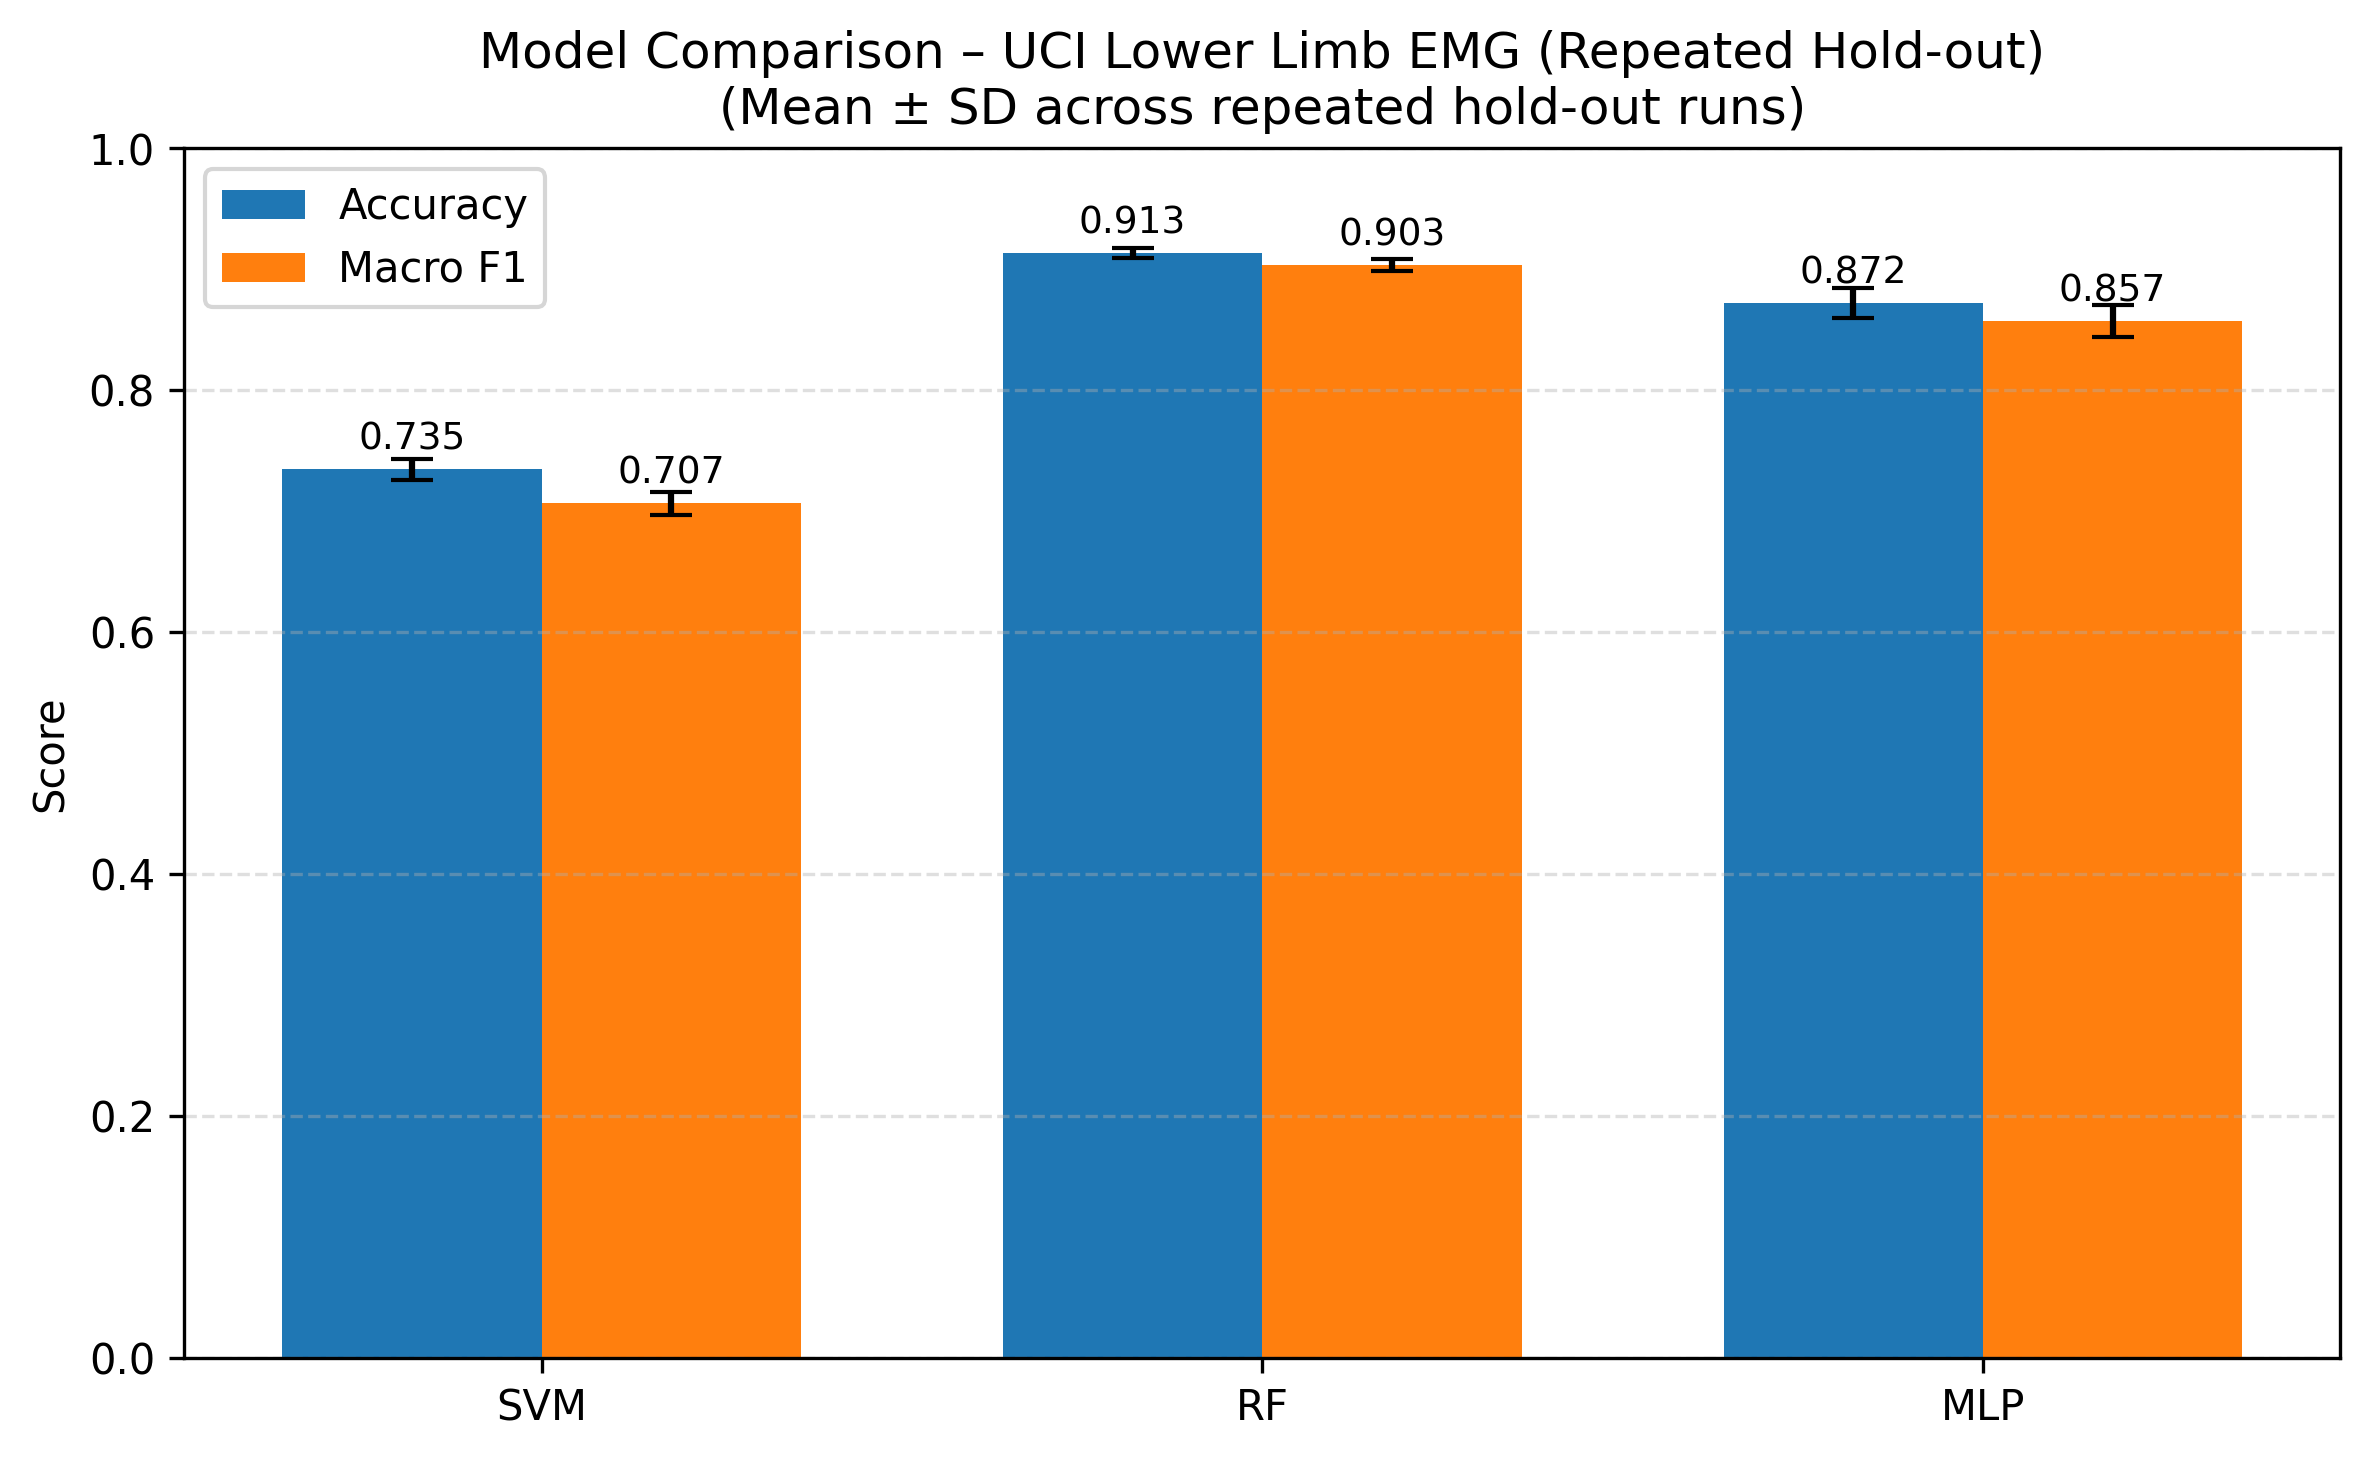
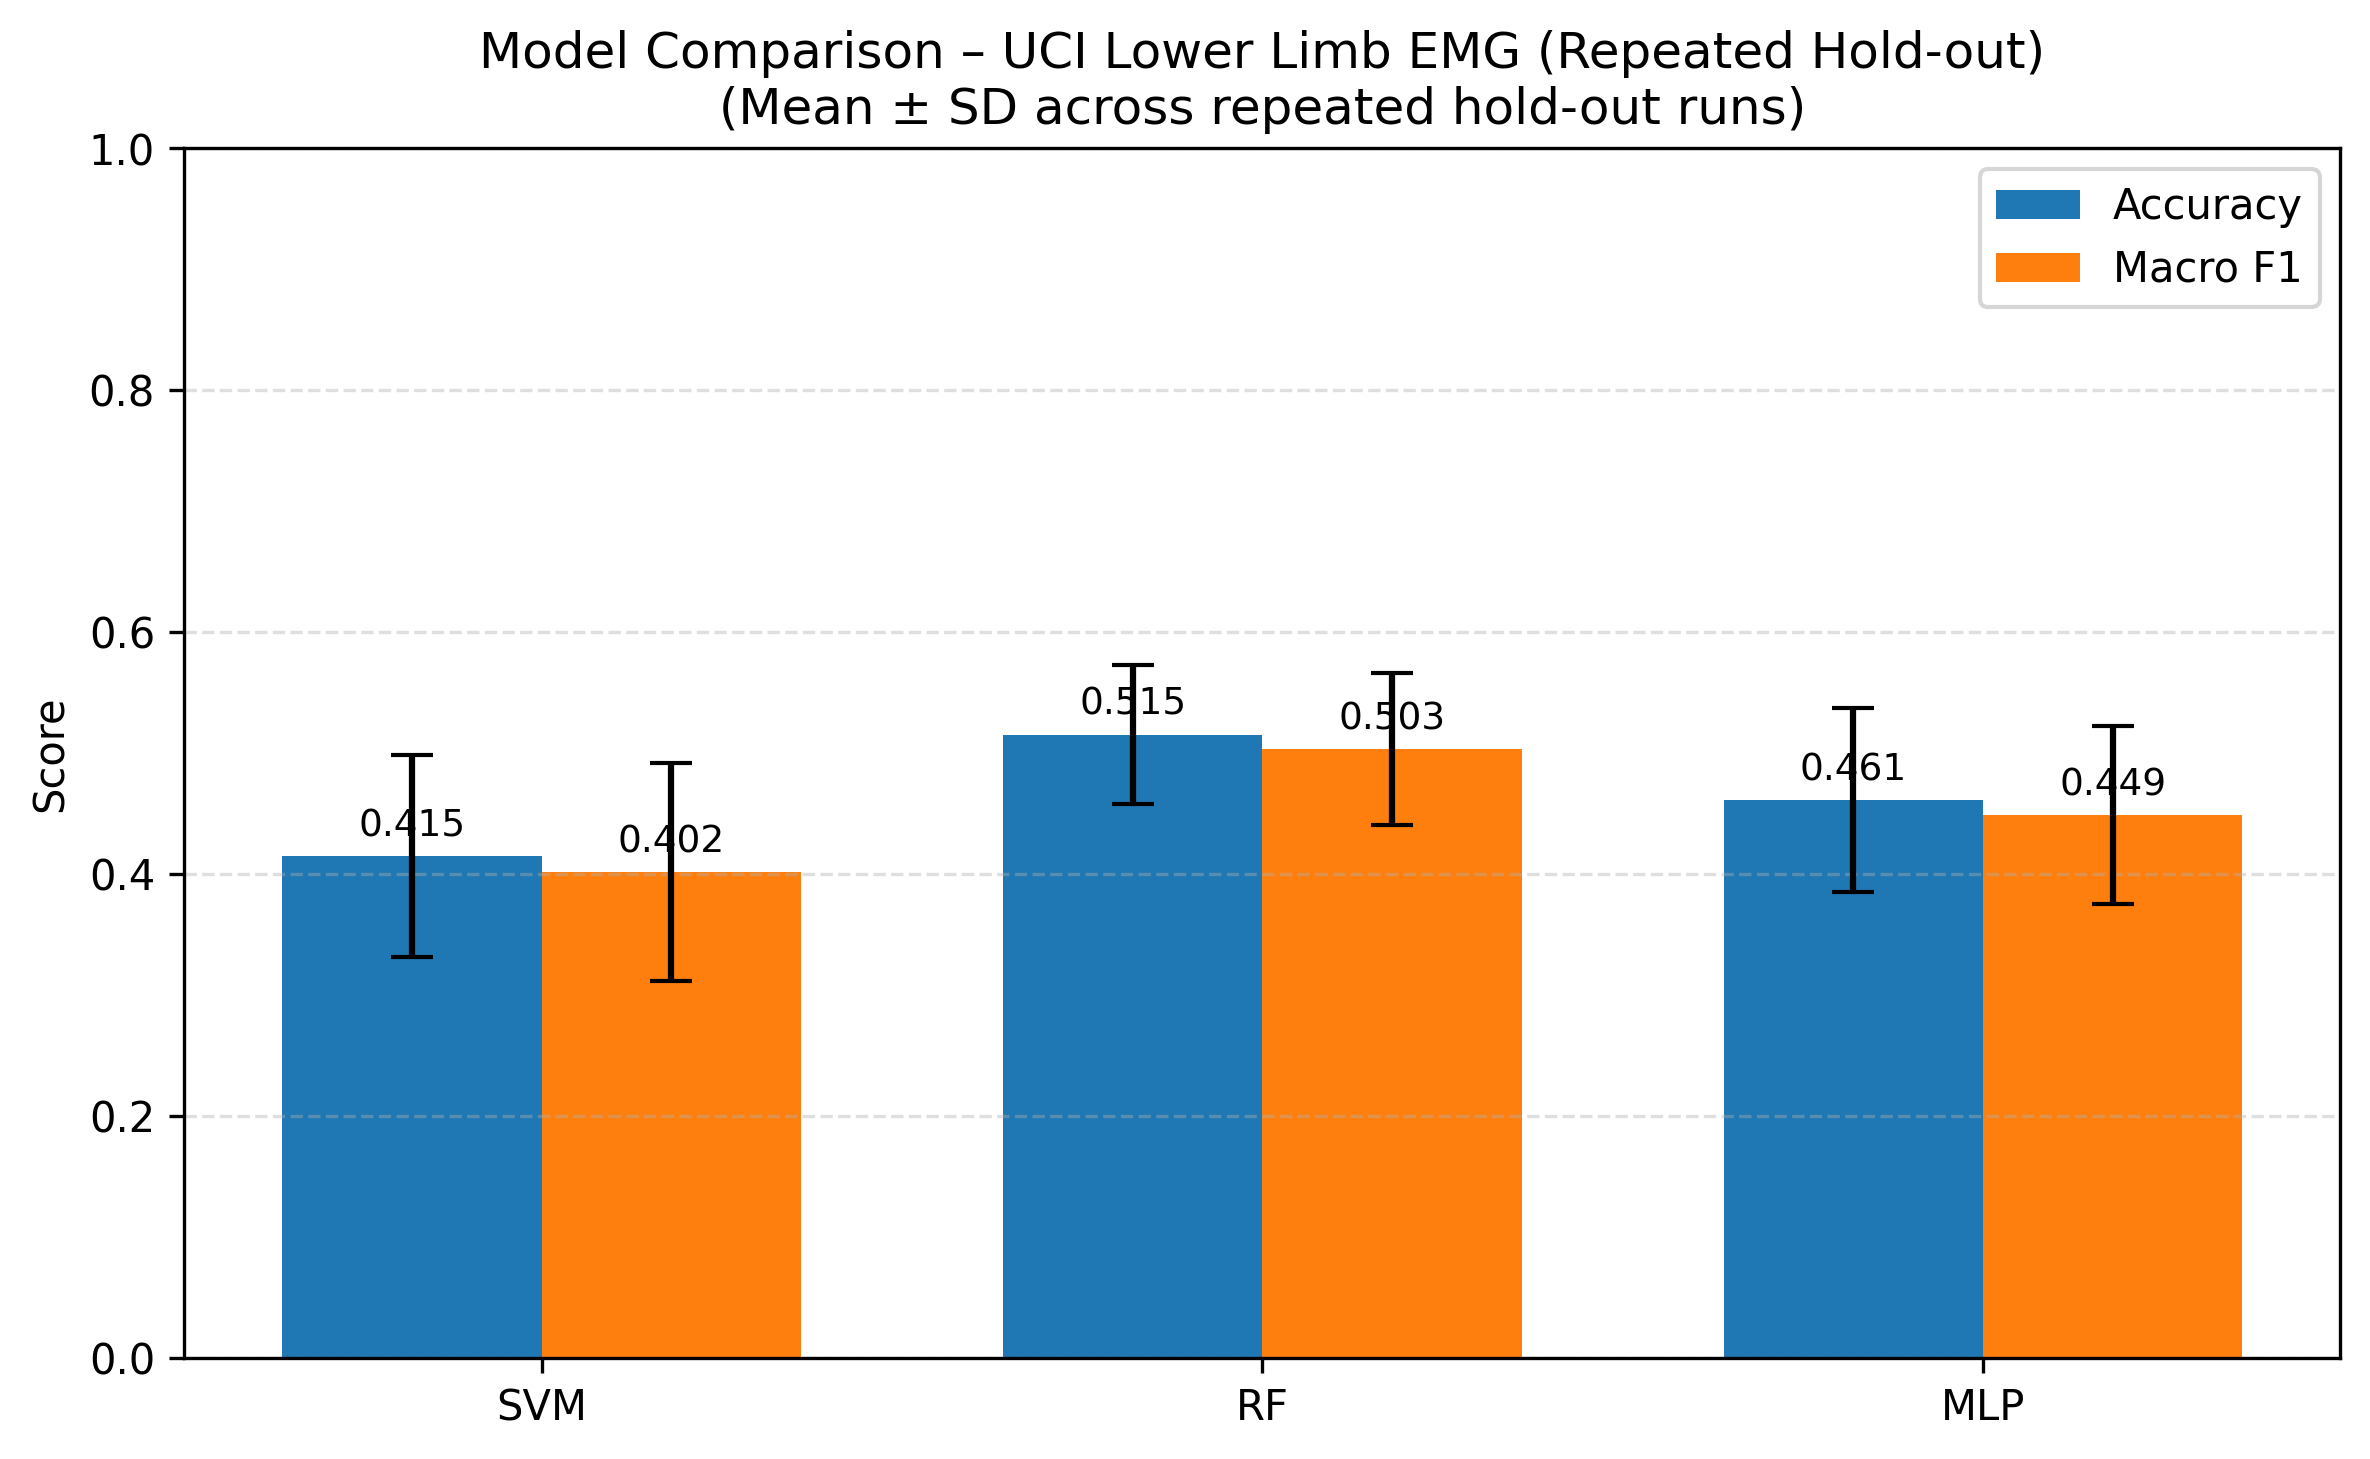
improve no 1

diff --git a/src/load_uci.py b/src/load_uci.py
@@ -1,19 +1,19 @@
 import os
 import numpy as np
 import pandas as pd
-
 import re
 
 _float_re = re.compile(r"[-+]?\d*\.?\d+(?:[eE][-+]?\d+)?")
 
-def _load_txt_file(path, assume_first_is_time=True, prefer_last_channel=True):
+def _load_txt_file(path):
     """
-    Robust loader for SEMG_DB1 txt files:
-    - extracts all floats per line via regex
-    - keeps only rows that match the most common column count
-    - if multi-column: optionally drop first column (time) and
-      then either take last channel or mean across channels
-    Returns: 1D numpy array (signal)
+    Load SEMG_DB1 txt file and always return EMG-only data
+    with shape (time, 4), corresponding to RF, BF, VM, ST.
+
+    Supported layouts per row:
+    - 4 cols  : RF BF VM ST
+    - 5 cols  : RF BF VM ST FX
+    - 6 cols  : time RF BF VM ST FX
     """
     rows = []
     with open(path, "r", encoding="utf-8", errors="ignore") as f:
@@ -21,75 +21,123 @@ def _load_txt_file(path, assume_first_is_time=True, prefer_last_channel=True):
             s = raw.strip()
             if not s:
                 continue
-            # extract floats anywhere in the line
+
             nums = _float_re.findall(s)
             if not nums:
                 continue
+
             try:
                 vals = [float(x) for x in nums]
             except Exception:
                 continue
+
             rows.append(vals)
 
     if not rows:
         raise RuntimeError(f"No numeric lines found in {path}")
 
-    # Determine most common column count (mode)
-    lens = [len(r) for r in rows]
-    # mode robustly
     from collections import Counter
+    lens = [len(r) for r in rows]
     L, _ = Counter(lens).most_common(1)[0]
 
-    # Keep only rows with that column count
     rows = [r for r in rows if len(r) == L]
     if len(rows) == 0:
         raise RuntimeError(f"No consistent rows with {L} columns in {path}")
 
-    data = np.asarray(rows, dtype=float)  # shape (n, L)
+    data = np.asarray(rows, dtype=float)
 
-    # If multi-column, select signal columns
-    if data.ndim == 2 and data.shape[1] > 1:
-        start_col = 1 if assume_first_is_time else 0
-        sig_part = data[:, start_col:]
-        if sig_part.shape[1] == 1:
-            signal = sig_part[:, 0]
-        else:
-            if prefer_last_channel:
-                signal = sig_part[:, -1]      # gunakan kanal terakhir
-            else:
-                signal = sig_part.mean(axis=1)  # atau rata-rata semua kanal
+    # Normalisasi layout agar output selalu (n_samples, 4)
+    if L == 4:
+        # langsung 4 channel EMG
+        emg = data[:, 0:4]
+
+    elif L == 5:
+        # kemungkinan RF BF VM ST FX
+        emg = data[:, 0:4]
+
+    elif L >= 6:
+        # kemungkinan time + RF BF VM ST FX
+        emg = data[:, 1:5]
+
     else:
-        signal = data.squeeze()
+        raise RuntimeError(f"Unexpected column count {L} in {path}")
 
-    # Jaga-jaga: buang NaN/Inf
-    mask = np.isfinite(signal)
-    signal = signal[mask]
-    if signal.size == 0:
-        raise RuntimeError(f"All values non-finite in {path}")
+    # buang baris yang non-finite
+    mask = np.all(np.isfinite(emg), axis=1)
+    emg = emg[mask]
 
-    return signal
+    if emg.size == 0:
+        raise RuntimeError(f"All EMG values non-finite in {path}")
+    
+    if emg.shape[1] != 4:
+        raise RuntimeError(f"Expected 4 EMG channels, got {emg.shape[1]} in {path}")
+
+    return emg
+
+def _parse_filename(fname):
+    """
+    Contoh:
+      10Amar.txt -> subject_num=10, cohort=A, activity_code=mar
+      7Npie.txt  -> subject_num=7, cohort=N, activity_code=pie
+    """
+    base = os.path.splitext(os.path.basename(fname))[0]
+    m = re.match(r"^(\d+)([AN])([A-Za-z]+)$", base, flags=re.IGNORECASE)
+    if not m:
+        raise ValueError(f"Unexpected filename format: {fname}")
+
+    subject_num = int(m.group(1))
+    cohort_code = m.group(2).upper()
+    activity_code = m.group(3).lower()
+
+    cohort = "abnormal" if cohort_code == "A" else "normal"
+
+    # Berdasarkan pola nama file + deskripsi aktivitas
+    # pie ≈ standing (de pie), sen ≈ sitting (sentado), mar ≈ walking (marcha)
+    activity_map = {
+        "mar": "walking",
+        "pie": "standing",
+        "sen": "sitting"
+    }
+    if activity_code not in activity_map:
+        raise ValueError(f"Unknown activity code '{activity_code}' in {fname}")
+
+    activity = activity_map[activity_code]
+
+    # subject global unik, jangan hanya 1..11
+    subject_id = f"{cohort_code}{subject_num:02d}"
+
+    return subject_id, subject_num, cohort, activity, activity_code
 
 def load_uci_dataset(base_path):
-    """Load UCI Lower-Limb EMG (SEMG_DB1) with A_TXT (abnormal) and N_TXT (normal).
-    Returns DataFrame with columns: signal (1D array), label (str), file (str).
     """
-    data, labels, files = [], [], []
-    n_dir = os.path.join(base_path, "N_TXT")
-    a_dir = os.path.join(base_path, "A_TXT")
-    if not os.path.isdir(n_dir) or not os.path.isdir(a_dir):
-        raise FileNotFoundError("Expected N_TXT and A_TXT folders inside the UCI dataset path.")
+    Returns DataFrame with columns:
+    signal, label, subject_id, subject_num, cohort, activity_code, file
+    """
+    records = []
 
-    for f in sorted(os.listdir(n_dir)):
-        if f.lower().endswith(".txt"):
-            p = os.path.join(n_dir, f)
-            sig = _load_txt_file(p)
-            data.append(sig); labels.append("normal"); files.append(p)
+    for subdir, cohort_code in [("N_TXT", "N"), ("A_TXT", "A")]:
+        d = os.path.join(base_path, subdir)
+        if not os.path.isdir(d):
+            raise FileNotFoundError(f"Missing folder: {d}")
 
-    for f in sorted(os.listdir(a_dir)):
-        if f.lower().endswith(".txt"):
-            p = os.path.join(a_dir, f)
-            sig = _load_txt_file(p)
-            data.append(sig); labels.append("abnormal"); files.append(p)
+        for f in sorted(os.listdir(d)):
+            if not f.lower().endswith(".txt"):
+                continue
 
-    df = pd.DataFrame({"signal": data, "label": labels, "file": files})
+            p = os.path.join(d, f)
+            signal = _load_txt_file(p)
+
+            subject_id, subject_num, cohort, activity, activity_code = _parse_filename(f)
+
+            records.append({
+                "signal": signal,              # 2D: time x channels
+                "label": activity,            # target klasifikasi aktivitas
+                "subject_id": subject_id,     # mis. A01, N03
+                "subject_num": subject_num,   # 1..11
+                "cohort": cohort,             # normal / abnormal
+                "activity_code": activity_code,
+                "file": p
+            })
+
+    df = pd.DataFrame(records)
     return df

diff --git a/main_uci.py b/main_uci.py
@@ -11,6 +11,7 @@ from src.preprocessing import preprocess
 from src.feature_extraction import extract_features
 from src.models import build_models, evaluate_models
 from src.evaluation import stratified_split, print_report
+from src.evaluation import subjectwise_split, print_report
 from src.visualization import plot_bar, plot_confusion
 
 
@@ -80,6 +81,11 @@ def run(cfg_path="D:/emg-baseline/emg-baseline/configs/uci_baseline.yaml"):
         print(f"[INFO] GPU name: {torch.cuda.get_device_name(device)}")
 
     df = load_uci_dataset(cfg["data_path"])
+    print(df[["file", "subject_id", "label"]].head())
+
+    for i in range(min(5, len(df))):
+        print(df.iloc[i]["file"], np.asarray(df.iloc[i]["signal"]).shape)
+        
     fs = cfg.get("sampling_rate", 1000)
     win = cfg.get("window", 200)
     ovl = cfg.get("overlap", 100)
@@ -87,21 +93,32 @@ def run(cfg_path="D:/emg-baseline/emg-baseline/configs/uci_baseline.yaml"):
     save_all_runs = bool(cfg.get("save_all_runs", True))
 
     # preprocess sekali saja
-    X_feat_list, y_list = [], []
-    for sig, label in tqdm(zip(df["signal"], df["label"]), total=len(df), desc="Preprocessing + feature extraction"):
+    X_feat_list, y_list, g_list = [], [], []
+
+    for sig, label, subject_id in tqdm(
+        zip(df["signal"], df["label"], df["subject_id"]),
+        total=len(df),
+        desc="Preprocessing + feature extraction"
+    ):
         x = preprocess(sig, fs=fs)
         feats = extract_features(x, window_ms=win, overlap_ms=ovl, fs=fs)
+
         if feats.shape[0] == 0:
             continue
+
         y = np.array([label] * feats.shape[0])
+        g = np.array([subject_id] * feats.shape[0])
+
         X_feat_list.append(feats)
         y_list.append(y)
+        g_list.append(g)
 
     if len(X_feat_list) == 0:
         raise RuntimeError("No feature windows produced. Coba ubah window/overlap di configs.")
 
     X = np.vstack(X_feat_list).astype(np.float32)
     y = np.concatenate(y_list)
+    groups = np.concatenate(g_list)
 
     classes_sorted = sorted(np.unique(y))
     class_to_id = {c: i for i, c in enumerate(classes_sorted)}
@@ -118,11 +135,21 @@ def run(cfg_path="D:/emg-baseline/emg-baseline/configs/uci_baseline.yaml"):
         print(f"\n{'='*20} Repeat {repeat_idx+1}/{n_repeats} | seed={seed} {'='*20}")
         _seed_everything(seed)
 
-        X_train, X_test, y_train, y_test = stratified_split(
-            X, y_enc,
+        X_train, X_test, y_train, y_test, g_train, g_test = subjectwise_split(
+            X, y_enc, groups,
             test_size=cfg.get("test_size", 0.2),
             random_state=seed
         )
+
+        train_subjects = sorted(set(g_train.tolist()))
+        test_subjects = sorted(set(g_test.tolist()))
+        overlap_subjects = sorted(set(train_subjects).intersection(set(test_subjects)))
+
+        if overlap_subjects:
+            raise RuntimeError(f"Subject leakage detected: {overlap_subjects}")
+
+        print(f"[INFO] Train subjects: {len(train_subjects)} | Test subjects: {len(test_subjects)}")
+        print(f"[INFO] Train/Test subject overlap: {len(overlap_subjects)}")
 
         models = build_models(
             cfg.get("models", ["SVM", "RF", "MLP"]),
@@ -145,6 +172,13 @@ def run(cfg_path="D:/emg-baseline/emg-baseline/configs/uci_baseline.yaml"):
             "seed": seed,
             "test_size": cfg.get("test_size", 0.2),
             "results_per_model": {}
+        }
+
+        repeat_record["split_info"] = {
+            "n_train_subjects": int(len(train_subjects)),
+            "n_test_subjects": int(len(test_subjects)),
+            "train_subjects": list(train_subjects),
+            "test_subjects": list(test_subjects)
         }
 
         for model_name, metrics in results.items():
@@ -227,6 +261,8 @@ def run(cfg_path="D:/emg-baseline/emg-baseline/configs/uci_baseline.yaml"):
         "created_at": stamp,
         "dataset": dataset_name,
         "mode": "baseline_repeated_holdout",
+        "split_strategy": "subject-wise GroupShuffleSplit",
+        "n_unique_subjects": int(len(np.unique(groups))),
         "device": str(device),
         "config": {
             "cfg_path": cfg_path,

diff --git a/src/evaluation.py b/src/evaluation.py
@@ -1,9 +1,19 @@
 import numpy as np
-from sklearn.model_selection import train_test_split
+from sklearn.model_selection import train_test_split, GroupShuffleSplit
 from sklearn.metrics import classification_report
 
 def stratified_split(X, y, test_size=0.2, random_state=42):
     return train_test_split(X, y, test_size=test_size, random_state=random_state, stratify=y)
+
+def subjectwise_split(X, y, groups, test_size=0.2, random_state=42):
+    X = np.asarray(X)
+    y = np.asarray(y)
+    groups = np.asarray(groups)
+
+    gss = GroupShuffleSplit(n_splits=1, test_size=test_size, random_state=random_state)
+    train_idx, test_idx = next(gss.split(X, y, groups=groups))
+
+    return X[train_idx], X[test_idx], y[train_idx], y[test_idx], groups[train_idx], groups[test_idx]
 
 def print_report(y_true, y_pred):
     print("\nClassification Report:\n", classification_report(y_true, y_pred, digits=4))
